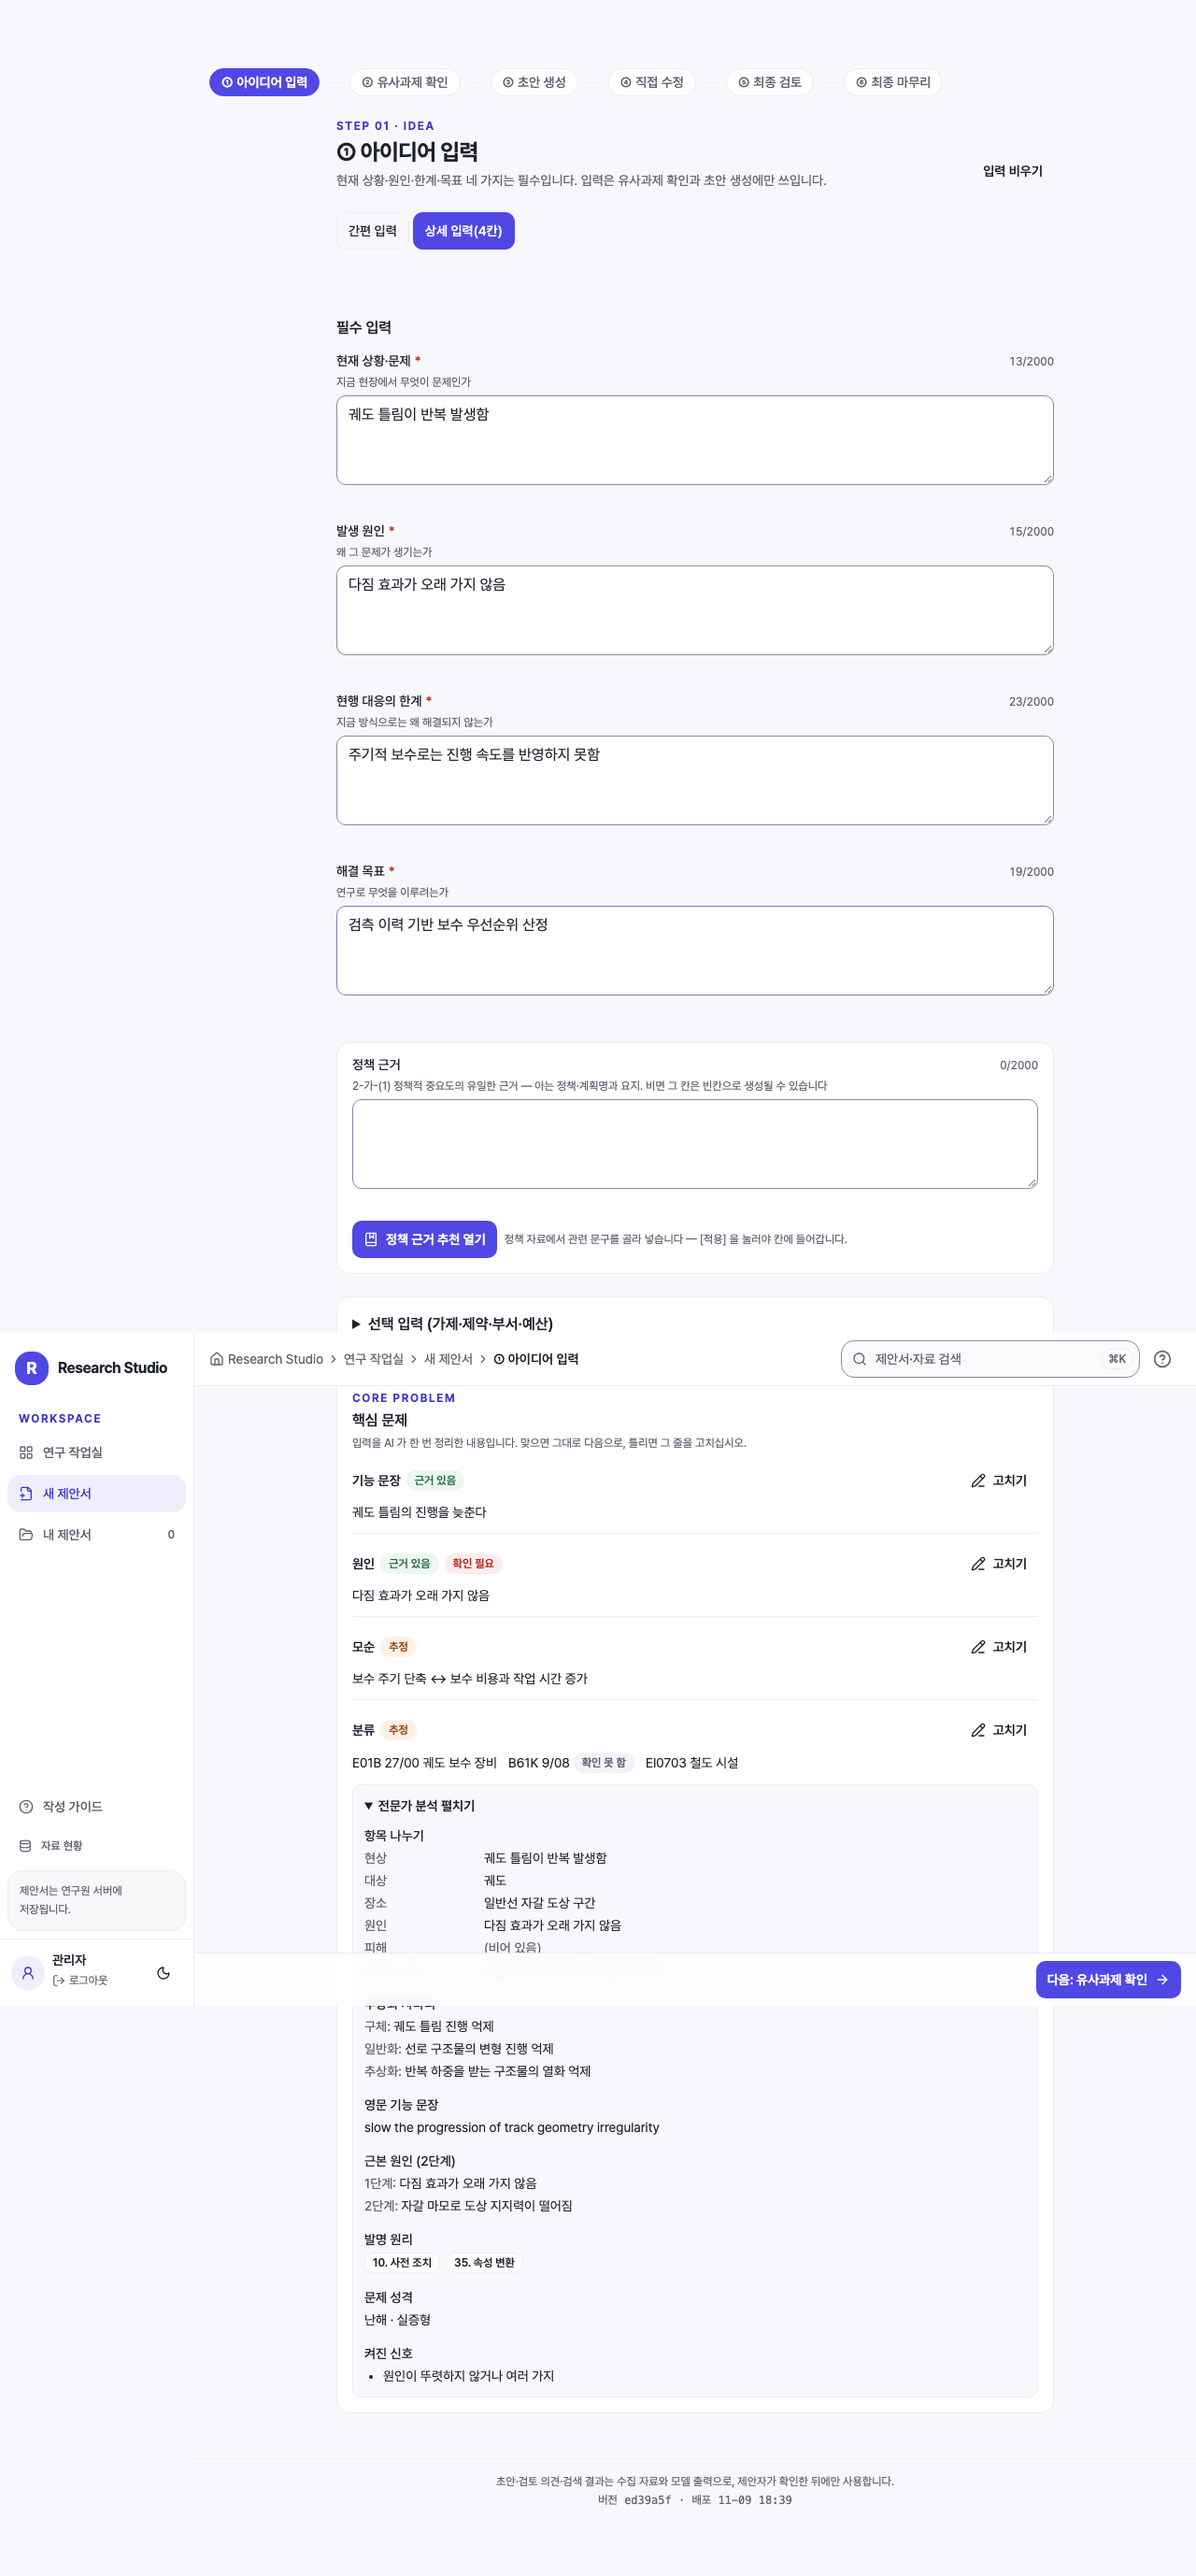
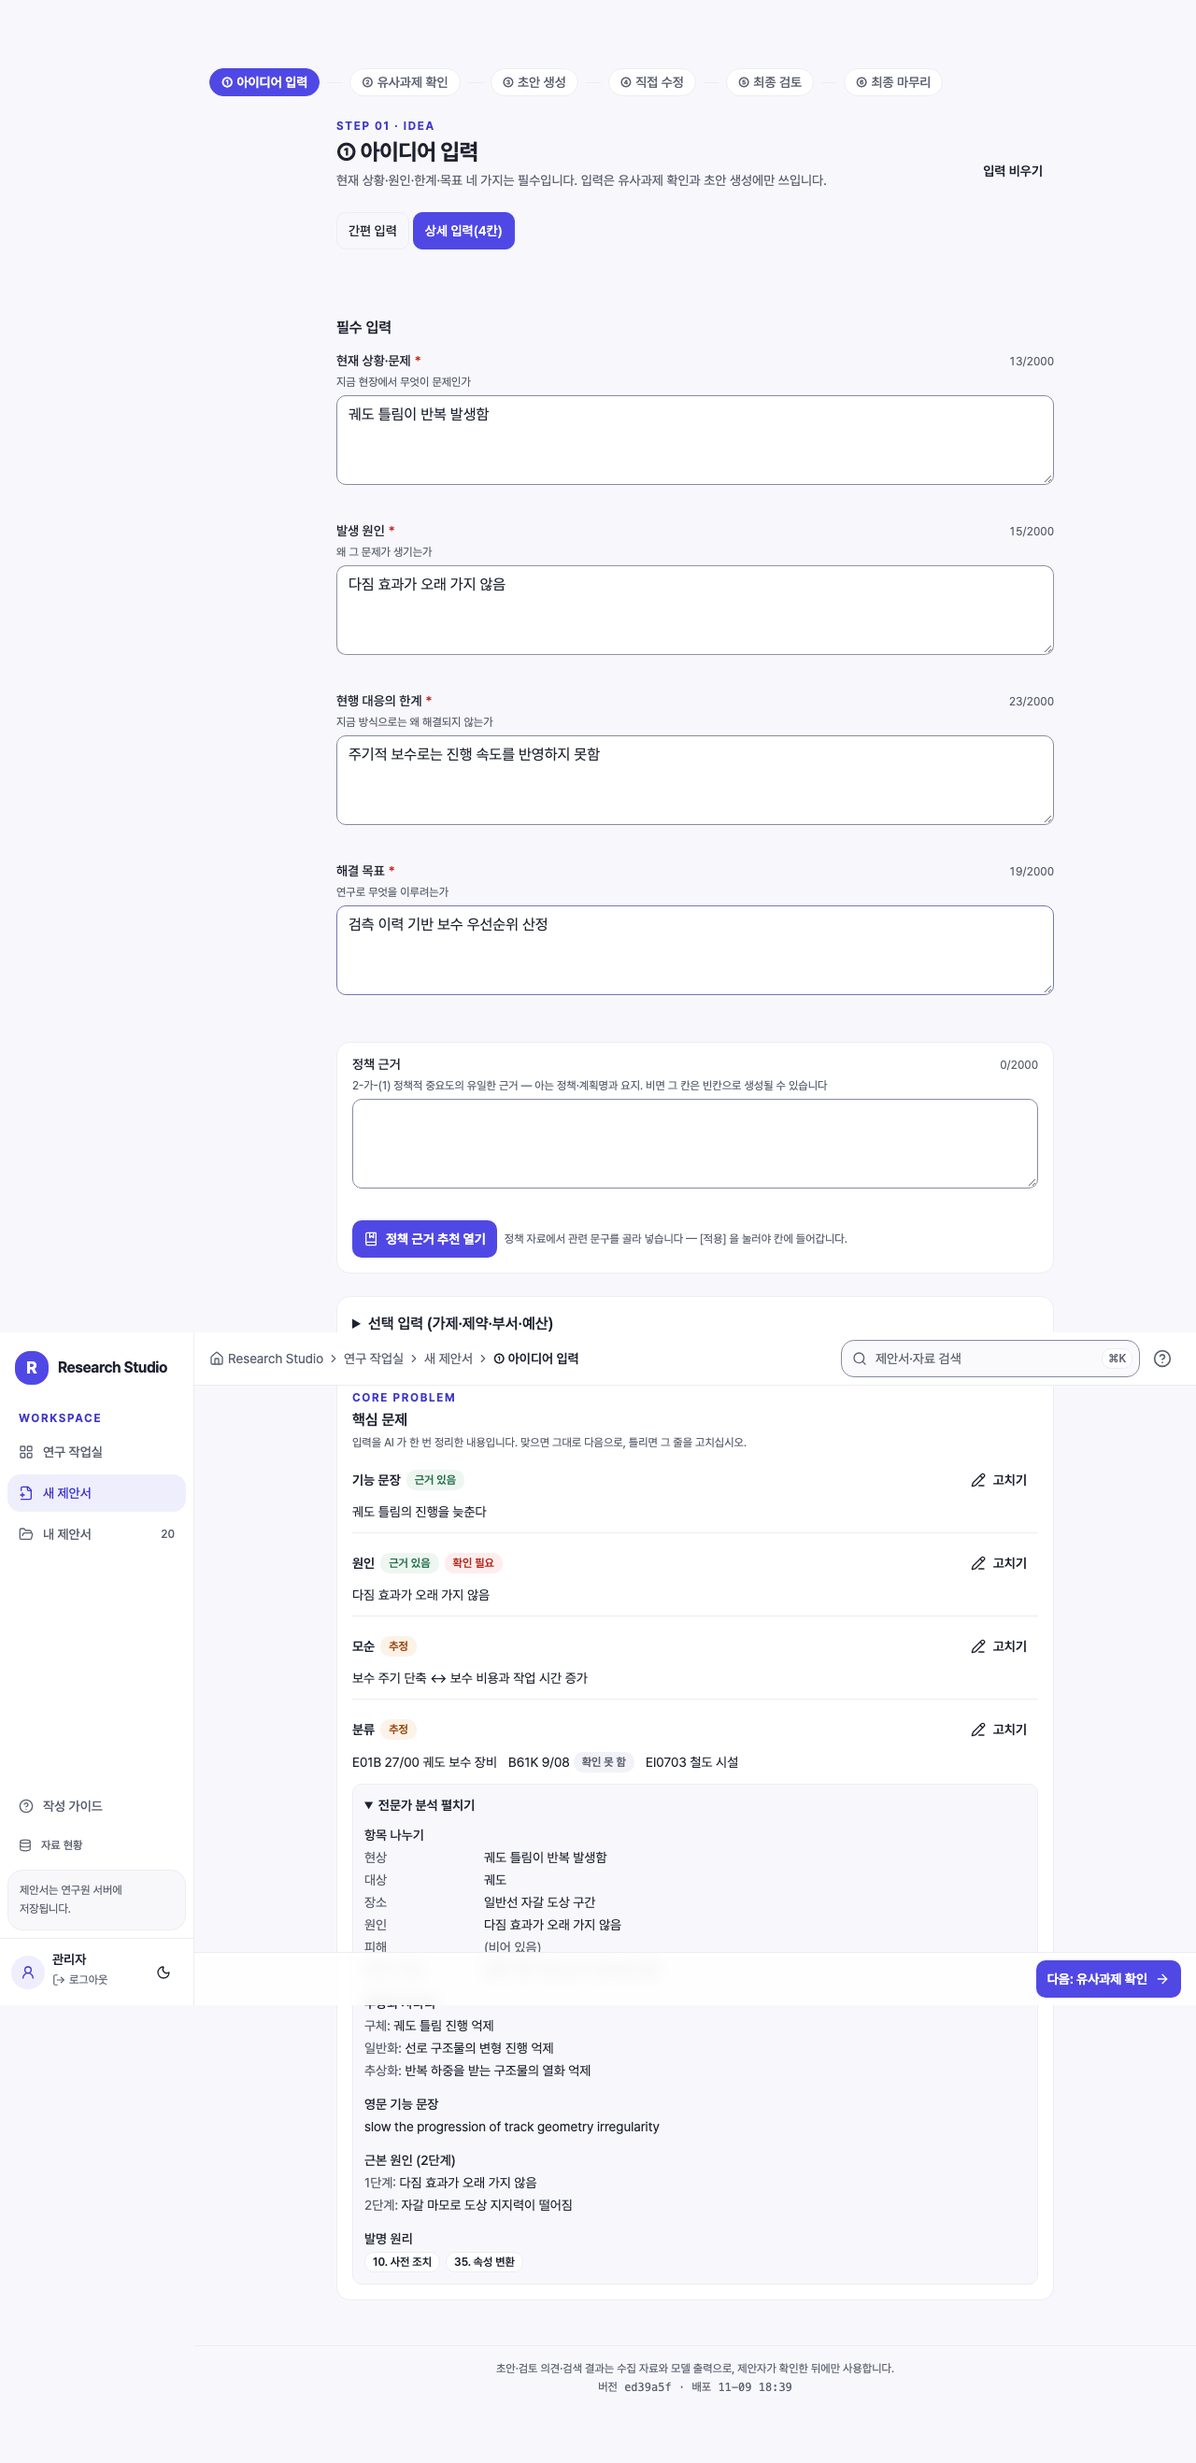
feat(web): 전문가 분석에서 문제 성격·켜진 신호는 그리지 않는다(1차는 기록만) + 조각 파일
소유자 결정(2026-11-10) — 카드의 nature·signals·signal_labels 는 받아 두고 요청에 실어 보내되 화면에는 없다.

diff --git a/web/src/features/idea/ProblemCard.tsx b/web/src/features/idea/ProblemCard.tsx
@@ -1,9 +1,9 @@
 /** ① '핵심 문제' 카드 (ADR 0065, 계약 5절) — 네 칸을 AI 가 한 번 정리한 4줄(기능 문장·원인·모순·분류).
  *  줄마다 '근거 있음'/'추정'(제안문에 있는 내용인지 AI 가 채운 것인지)·'확인 필요', 줄마다 [고치기] → 그 줄만 고쳐 [적용].
- *  "전문가 분석 펼치기"는 기본 접힘. 카드 글은 모델 출력·제안자 수정(비신뢰) → UntrustedText. 열거값은 화면에 내보내지 않는다. */
+ *  "전문가 분석 펼치기"는 기본 접힘(문제 성격·신호는 보이지 않는다). 카드 글은 모델 출력·제안자 수정(비신뢰) → UntrustedText. 열거값은 화면에 내보내지 않는다. */
 import * as React from "react";
 import { PencilLine } from "lucide-react";
-import type { CardBasis, CardLines, ClassCode, DiagnoseOut, ProblemCard as Card } from "@/api/types-problem-card";
+import type { CardBasis, CardLines, ClassCode, ProblemCard as Card } from "@/api/types-problem-card";
 import { Badge } from "@/components/ui/badge";
 import { Button } from "@/components/ui/button";
 import { Eyebrow } from "@/components/ui/eyebrow";
@@ -94,11 +94,9 @@ function ExpertItem({ title, children, testId }: { title: string; children: Reac
   );
 }
 
-function Expert({ card, signalLabels }: { card: Card; signalLabels: DiagnoseOut["signal_labels"] }) {
+/** 문제 성격(nature)·켜진 신호(signals)는 1차에 기록만 한다 — 카드에 들고 다니되 화면 어디에도 그리지 않는다 (2026-11-10 소유자 결정) */
+function Expert({ card }: { card: Card }) {
   const facets = Object.keys(CARD_FACET_LABELS) as (keyof typeof CARD_FACET_LABELS)[];
-  // 켜진 신호 — 카드에 남아 있는 신호 중 서버가 한국어 라벨을 준 것만 (열거값은 보이지 않는다)
-  const signals = signalLabels.filter((s) => card.signals.includes(s.signal) && s.label);
-  const nature = [card.nature.kind, card.nature.mode].filter(Boolean).join(" · ");
   return (
     <details className="rounded-md border bg-background p-3" data-testid="problem-card-expert">
       <summary className="cursor-pointer text-sm font-semibold">{CARD_EXPERT_SUMMARY}</summary>
@@ -159,20 +157,6 @@ function Expert({ card, signalLabels }: { card: Card; signalLabels: DiagnoseOut[
             <Empty />
           )}
         </ExpertItem>
-        <ExpertItem title={CARD_EXPERT_LABELS.nature} testId="card-nature">
-          {nature || <Empty />}
-        </ExpertItem>
-        <ExpertItem title={CARD_EXPERT_LABELS.signals} testId="card-signals">
-          {signals.length ? (
-            <ul className="list-disc space-y-1 pl-5">
-              {signals.map((s) => (
-                <UntrustedText key={s.signal} as="li" text={s.label} />
-              ))}
-            </ul>
-          ) : (
-            <Empty />
-          )}
-        </ExpertItem>
       </div>
     </details>
   );
@@ -181,7 +165,6 @@ function Expert({ card, signalLabels }: { card: Card; signalLabels: DiagnoseOut[
 export interface ProblemCardProps {
   card: Card;
   lines: CardLines;
-  signalLabels?: DiagnoseOut["signal_labels"];
   /** 네 칸이 카드를 만든 때와 달라졌다 — 다시 정리하는 동안은 고치기를 막는다 */
   changed?: boolean;
   /** 그때 보일 한 줄 (기본: 다시 정리하는 중) */
@@ -190,7 +173,7 @@ export interface ProblemCardProps {
   onEdit: (change: CardChange) => Promise<void>;
 }
 
-export function ProblemCard({ card, lines, signalLabels = [], changed = false, changedNote = CARD_INPUT_CHANGED, onEdit }: ProblemCardProps) {
+export function ProblemCard({ card, lines, changed = false, changedNote = CARD_INPUT_CHANGED, onEdit }: ProblemCardProps) {
   const [editing, setEditing] = React.useState<CardLineKey | null>(null);
   const [busy, setBusy] = React.useState(false);
   const [failed, setFailed] = React.useState(false);
@@ -273,7 +256,7 @@ export function ProblemCard({ card, lines, signalLabels = [], changed = false, c
           );
         })}
       </ul>
-      <Expert card={card} signalLabels={signalLabels} />
+      <Expert card={card} />
     </section>
   );
 }

diff --git a/web/src/features/idea/ProblemCard.test.tsx b/web/src/features/idea/ProblemCard.test.tsx
@@ -17,7 +17,7 @@ const INTERNAL_CODES = /unclear_cause|cause_mismatch|unverified|corpus|\bcore\b|
 
 function renderCard(over: Partial<React.ComponentProps<typeof ProblemCard>> = {}) {
   const onEdit = vi.fn<(c: CardChange) => Promise<void>>(async () => undefined);
-  const view = renderWithProviders(<ProblemCard card={CARD} lines={LINES} signalLabels={out.signal_labels} onEdit={onEdit} {...over} />);
+  const view = renderWithProviders(<ProblemCard card={CARD} lines={LINES} onEdit={onEdit} {...over} />);
   return { ...view, onEdit };
 }
 const line = (key: string) => screen.getByTestId(`card-line-${key}`);
@@ -42,7 +42,7 @@ describe("핵심 문제 카드 — 보기", () => {
     await expectNoA11yViolations(container);
   });
 
-  it("전문가 분석은 기본 접힘 — 펼치면 항목 나누기 6칸·사다리 3단·영문 기능 문장·근본 원인 2단계·발명 원리·문제 성격·신호 라벨", async () => {
+  it("전문가 분석은 기본 접힘 — 펼치면 항목 나누기 6칸·사다리 3단·영문 기능 문장·근본 원인 2단계·발명 원리", async () => {
     renderCard();
     const expert = screen.getByTestId("problem-card-expert") as HTMLDetailsElement;
     expect(expert.open).toBe(false);
@@ -61,11 +61,22 @@ describe("핵심 문제 카드 — 보기", () => {
     expect(within(screen.getByTestId("card-causes")).getAllByRole("listitem")).toHaveLength(2);
     expect(screen.getByTestId("card-principles")).toHaveTextContent("10. 사전 조치");
     expect(screen.getByTestId("card-principles")).toHaveTextContent("35. 속성 변환");
-    expect(screen.getByTestId("card-nature")).toHaveTextContent("난해 · 실증형");
-    expect(screen.getByTestId("card-signals")).toHaveTextContent("원인이 뚜렷하지 않거나 여러 가지");
   });
 
-  it("빈 줄은 '(비어 있음)', 제안자가 고친 줄은 '직접 고침', 라벨 없는 신호는 보이지 않는다", () => {
+  it("문제 성격·켜진 신호 문구는 화면에 없다 — 접혀 있을 때도 펼친 뒤에도 (1차는 기록만)", async () => {
+    const { container } = renderCard();
+    const hidden = /문제 성격|켜진 신호|난해|실증형|도입형|연구형|원인이 뚜렷하지 않거나 여러 가지/;
+    expect(CARD.nature.kind).toBe("난해");
+    expect(CARD.signals).toEqual(["unclear_cause"]);
+    expect(out.signal_labels[0]!.label).toMatch(hidden);
+    expect(container.textContent).not.toMatch(hidden);
+    await userEvent.click(screen.getByText("전문가 분석 펼치기"));
+    expect(container.textContent).not.toMatch(hidden);
+    expect(screen.queryByTestId("card-nature")).toBeNull();
+    expect(screen.queryByTestId("card-signals")).toBeNull();
+  });
+
+  it("빈 줄은 '(비어 있음)', 제안자가 고친 줄은 '직접 고침'", () => {
     const card: Card = {
       ...CARD,
       function_ko: { ...CARD.function_ko, origin: "user", value: "틀림 진행을 미리 안다" },
@@ -73,7 +84,6 @@ describe("핵심 문제 카드 — 보기", () => {
       contradiction: { ...CARD.contradiction, improve: "", worsen: "", principles: [] },
       ipc: [],
       science_class: [],
-      signals: ["unclear_cause", "broad_scope"],
     };
     renderCard({ card, lines: { function: "틀림 진행을 미리 안다", cause: "", contradiction: "", codes: "" } });
     expect(within(line("function")).getByTestId("card-by-user")).toHaveTextContent("직접 고침");
@@ -82,7 +92,6 @@ describe("핵심 문제 카드 — 보기", () => {
       expect(within(line(key)).getByTestId("card-line-text")).toHaveTextContent("(비어 있음)");
       expect(within(line(key)).queryByTestId("card-basis")).toBeNull();
     }
-    expect(within(screen.getByTestId("card-signals")).getAllByRole("listitem")).toHaveLength(1);
   });
 
   it("입력이 바뀌면 안내 한 줄을 보이고 고치기를 막는다 / 진단 중 표시는 작은 한 줄", () => {

diff --git a/web/src/lib/labels.ts b/web/src/lib/labels.ts
@@ -153,7 +153,7 @@ export function providerLabel(provider: string | null | undefined): string {
 }
 
 /** ① '핵심 문제' 카드 (ADR 0065, docs/contracts/problem-card.md 5절) — 화면 문구는 여기 한 곳.
- *  카드의 열거값(신호·확인 경로·확인 필요 사유·방법 이름)은 화면에 내보내지 않는다 — 신호는 서버가 준 한국어 라벨만. */
+ *  카드의 열거값(신호·확인 경로·확인 필요 사유·방법 이름)은 화면에 내보내지 않는다. 문제 성격·켜진 신호는 1차에 기록만 — 화면 문구가 없다. */
 export const CARD_TITLE = "핵심 문제";
 export const CARD_INTRO = "입력을 AI 가 한 번 정리한 내용입니다. 맞으면 그대로 다음으로, 틀리면 그 줄을 고치십시오.";
 export const CARD_PENDING = "문제 정리 중…";
@@ -193,8 +193,6 @@ export const CARD_EXPERT_LABELS = {
   functionEn: "영문 기능 문장",
   causes: "근본 원인 (2단계)",
   principles: "발명 원리",
-  nature: "문제 성격",
-  signals: "켜진 신호",
 } as const;
 /** 발명 원리 표시 — "1. 분할" */
 export function principleLabel(p: { number: number; name: string }): string {

diff --git a/web/src/features/idea/store.ts b/web/src/features/idea/store.ts
@@ -54,7 +54,7 @@ export interface IdeaState {
   problemCard?: ProblemCard | null;
   /** 카드 4줄의 표시 문장(서버가 만든 것) */
   cardLines?: CardLines | null;
-  /** 켜진 신호의 한국어 라벨 — 전문가 분석에 보인다 */
+  /** 켜진 신호의 한국어 라벨 — 1차는 받아 두기만 하고 화면에 그리지 않는다 */
   cardSignals?: DiagnoseOut["signal_labels"];
   /** 진단을 마친(성공·꺼짐·실패 모두) 네 칸의 서명 — 지금 네 칸과 다르면 다시 진단한다 */
   cardSig?: string | null;

diff --git a/web/src/routes/Idea.tsx b/web/src/routes/Idea.tsx
@@ -175,7 +175,6 @@ export default function Idea() {
           <ProblemCard
             card={idea.problemCard}
             lines={idea.cardLines}
-            signalLabels={idea.cardSignals ?? []}
             changed={diagnosis.changed}
             changedNote={diagnosis.incomplete ? CARD_INPUT_INCOMPLETE : CARD_INPUT_CHANGED}
             onEdit={applyCardEdit}

diff --git a/docs/status.d/feat-card-c-web.md b/docs/status.d/feat-card-c-web.md
@@ -1,0 +1,13 @@
+# 현황 조각 — feat/card-c-web (문제 정의 카드 1차 레인 C, 2026-11-10)
+
+| 항목 | 상태 | 비고 |
+|---|---|---|
+| ① '핵심 문제' 카드 4줄 | 완료(웹) | 기능 문장·원인·모순·분류, 배지 '근거 있음'/'추정'·'확인 필요'·'확인 못 함'·'직접 고침'. `features/idea/ProblemCard.tsx` |
+| 줄 고치기 | 완료(웹) | 한 줄만 편집 → [적용] 때 `POST /v1/ideas/diagnose/edit`(fields 에 그 항목), 응답 카드·4줄로 갈아 끼움. 빈 값 허용 |
+| 전문가 분석 펼치기 | 완료(웹) | 항목 나누기·사다리·영문 기능 문장·근본 원인 2단계·발명 원리. 문제 성격·켜진 신호는 화면에 없음(1차는 기록만, 2026-11-10 소유자 결정) |
+| 뒤에서 진단 | 완료(웹) | 간편 입력 채움 때 바로, 상세 입력은 네 칸이 찬 뒤 1.5초 멈추면 1회. [다음] 은 기다리지 않고 진행 중 호출을 끊는다. 꺼짐·실패·404·5xx·네트워크 오류 → 카드 영역 없음 |
+| 카드 전달 | 완료(웹) | 과제안(`/v1/precheck/recommendations`·더 만들기·적용)·보강 질문·초안 생성 요청에만. 유사과제 확인·AI 판정·비교표·활용 제안·선택 기록 요청과 그 캐시 키에는 없음 |
+| ② 문제 정의 바뀜 | 완료(웹) | "문제 정의가 바뀌었습니다." + [과제안 다시 만들기], 자동 실행 없음 |
+| 새 과제명 발명 원리 | 완료(웹) | `principles` 가 있으면 "발명 원리 n. 이름" 배지 |
+| 서버 경로 | 레인 A 대기 | e2e 는 `web/e2e/helpers-problem-card.ts` 가 계약 응답으로 가로챔 — 통합 뒤 `RRA_E2E_REAL_CARD=1` 로 실제 서버 |
+| 작성 가이드 | 미반영 | 스위치를 켠 뒤 메인이 `features/guide/content.tsx`·`docs/pilot-guide.md` 에 함께 넣는다(문단 초안은 PR 본문) |

diff --git a/docs/history/timeline.d/2026-11-10-feat-card-c-web.md b/docs/history/timeline.d/2026-11-10-feat-card-c-web.md
@@ -1,0 +1,1 @@
+| 2026-11-10 | 문제 정의 카드 1차 — 레인 C(웹, ADR 0065): ① 상세 입력 아래 '핵심 문제' 카드 4줄(기능 문장·원인·모순·분류, '근거 있음'/'추정'·'확인 필요'·'확인 못 함'·'직접 고침'), 줄마다 [고치기] → `diagnose/edit`, "전문가 분석 펼치기"(접힘). 진단은 뒤에서(간편 입력은 바로, 상세 입력은 1.5초 멈춤 뒤 1회, [다음] 은 기다리지 않음), 꺼짐·실패·오류면 카드 영역 없음. 카드는 과제안·보강 질문·초안 요청에만 실리고 ② 판정·비교표 요청에는 싣지 않는다. ② "문제 정의가 바뀌었습니다." + [과제안 다시 만들기](자동 실행 없음), 새 과제명의 "발명 원리 n. 이름" 배지. 서버 경로는 레인 A — e2e 는 가로챈 계약 응답(`web/e2e/helpers-problem-card.ts`, 통합 뒤 `RRA_E2E_REAL_CARD=1`) | 제안자가 AI 가 정리한 문제를 확인·수정하고, 그 문제 정의가 유추·과제안에 쓰이게 하려고 | PR #TBD | vitest +32, e2e +6, 화면 캡처 3장 |
